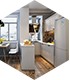
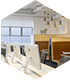
Odelic---wjk UI调整

diff --git a/src/main/resources/static/css/commercial2_css.css b/src/main/resources/static/css/commercial2_css.css
@@ -17,11 +17,11 @@
 
 /**/
 .comm2_switch{
-    width:1204px;
+    width:1260px;
     margin: 0px auto;
 }
 .comm2_switch ul li{
-    width: 172px;
+    width: 180px;
     list-style: none;
     float: left;
 }
@@ -52,17 +52,17 @@
 
 .comm2_anli_content{
     clear: both;
-    width: 1320px;
+    width: 1280px;
     margin: 30px auto;
-    padding-left: 30px;
+    padding-left: 25px;
 }
 .comm2_anli_content ul{
     clear: both;
 }
 .comm2_anli_content ul li{
-    width: 420px;
-    height: 340px;
-    padding-left: 20px;
+    width: 410px;
+    height: 330px;
+    padding-left: 15px;
     list-style: none;
 }
 .comm2_anli_content ul .img_left{
@@ -72,21 +72,21 @@
     float: left;
 }
 .comm2_anli_content ul li a div{
-    width: 390px;
-    height: 260px;
+    width: 380px;
+    height: 253px;
     overflow: hidden;
 }
 .comm2_anli_content ul li a div img{
-    width: 390px;
-    height: 260px;
+    width: 380px;
+    height: 253px;
     transition: all 1s;
 }
 .comm2_anli_content ul li a div:hover img{
     transform: scale(1.1,1.1);
 }
 
-.comm2_anli_content ul li div{
-    width: 390px;
+.comm2_anli_content ul li>div{
+    width: 380px;
     font-size:18px;
     color: #333333;
     margin-top: 10px;
